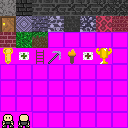
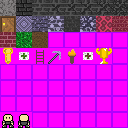
Implement Ladder System

Changed region(s): [[0.25, 0.25, 0.375, 0.375]]

diff --git a/screen.c b/screen.c
@@ -4,6 +4,7 @@
 #include "./game.h"
 #include "./item.h"
 #include "./vec2.h"
+#include "./ladder.h"
 #include <SDL2/SDL.h>
 #include <SDL2/SDL_image.h>
 #include <stdio.h>
@@ -11,9 +12,11 @@
 #include <stdbool.h>
 #include <assert.h>
 #include <math.h>
+#include <time.h>
 
 
 double zbuffer[SCREEN_WIDTH] = {0};
+void screen_generate_overworld_floor();
 
 Screen screen_init(int* pixels)
 {
@@ -21,8 +24,26 @@ Screen screen_init(int* pixels)
     screen.pixels = pixels;
 
     screen.bitmap = bitmap_load("./res/bitmap.png");
+    screen_generate_overworld_floor();
 
     return screen;
+}
+
+int overworld_floor_map[MAP_WIDTH][MAP_HEIGHT] = {0};
+
+void screen_generate_overworld_floor()
+{
+    srand(time(0));
+    for (int x = 0; x < MAP_WIDTH; x++) {
+	for (int y = 0; y < MAP_HEIGHT; y++) {
+	    double r = (double)rand() / (double)RAND_MAX; // 0 - 1, 0% - 100%
+	    if (r < 0.2) {
+		overworld_floor_map[x][y] = 1;
+	    } else {
+		overworld_floor_map[x][y] = 0;
+	    }
+	}
+    }
 }
 
 void screen_render_floor(Screen* screen, Vec2* dir, Vec2* plane, Vec2* pos)
@@ -59,23 +80,36 @@ void screen_render_floor(Screen* screen, Vec2* dir, Vec2* plane, Vec2* pos)
 	    floor_y += step_y;
 
 	    // Floor
-	    int bm_index = 0;
+	    int bm_floor_index = 0;
 	    switch (current_map_type) {
+	    case MAP_CAVE:
+		bm_floor_index = 0;
+		break;
 	    case MAP_ICE:
-		bm_index = TILE_ICE_GROUND;
+		bm_floor_index = TILE_ICE_GROUND;
 		break;
 	    case MAP_FIRE:
-		bm_index = TILE_FIRE_GROUND;
+		bm_floor_index = TILE_FIRE_GROUND;
 		break;
-	    default:
+	    case MAP_OVERWORLD:
+		if (overworld_floor_map[cell_x % MAP_WIDTH][cell_y % MAP_HEIGHT] == 0) {
+		    bm_floor_index = TILE_OVERWORLD_GRASS_GROUND;
+		} else {
+		    bm_floor_index = TILE_OVERWORLD_DIRT_GROUND;
+		}
 		break;
 	    }
-	    int color = screen->bitmap.pixels[TEX_WIDTH * ty + tx][bm_index];
+	    // Floor
+	    int color = screen->bitmap.pixels[TEX_WIDTH * ty + tx][bm_floor_index];
 	    color = (color >> 1) & 8355711; // More darker
 	    screen->pixels[y * SCREEN_WIDTH + x] = color;
-	
+
 	    // Celling
-	    screen->pixels[(SCREEN_HEIGHT - y - 1) * SCREEN_WIDTH + x] = color;
+	    if (current_map_type == MAP_OVERWORLD) {
+		screen->pixels[(SCREEN_HEIGHT - y - 1) * SCREEN_WIDTH + x] = 0;
+	    } else {
+		screen->pixels[(SCREEN_HEIGHT - y - 1) * SCREEN_WIDTH + x] = color;
+	    }
 	}
     }
 #else
@@ -122,8 +156,14 @@ void screen_perform_dda(Ray* ray, int* map_x, int* map_y, Vec2* pos)
 	    ray->side = 1;
 	}
 
-	if (map[*map_x][*map_y] > 0) {
+	if (*map_x < 0 || *map_x >= MAP_WIDTH ||
+	    *map_y < 0 || *map_y >= MAP_HEIGHT) {
 	    hit = 1;
+	}
+
+	if (map[*map_x][*map_y] > 0) {
+	    hit = -1;
+	    break;
 	}
     }
 }
@@ -166,6 +206,7 @@ void screen_render_walls(Screen* screen, Vec2* dir, Vec2* plane, Vec2* pos)
 	screen_calculate_perp_wall_dist(&ray, pos, &wall_x);
 
 	int tex_num = map[map_x][map_y];
+
 	int tex_x = (int)(wall_x * (double)TEX_WIDTH);
 	if (ray.side == 0 && ray_dir.x > 0) tex_x = TEX_WIDTH - tex_x - 1;
 	if (ray.side == 1 && ray_dir.y < 0) tex_x = TEX_HEIGHT - tex_x - 1;
@@ -199,6 +240,8 @@ void screen_render_walls(Screen* screen, Vec2* dir, Vec2* plane, Vec2* pos)
 void screen_render(Screen* screen, Vec2* dir, Vec2* plane, Vec2* pos)
 {
     screen_render_floor(screen, dir, plane, pos);
-    screen_render_walls(screen, dir, plane, pos);
+    if (current_map_type != MAP_OVERWORLD)
+	screen_render_walls(screen, dir, plane, pos);
     items_render(screen, dir, plane, pos);
+    ladders_render(screen, dir, plane, pos);
 }

diff --git a/ladder.c b/ladder.c
@@ -1,0 +1,61 @@
+#include "./ladder.h"
+#include "./map.h"
+
+Ladder ladders[LADDER_CAP] = {0};
+int ladder_count = 0;
+
+
+void ladder_create(MapType map1, MapType map2, Bitmap* bitmap, double x, double y)
+{
+    if (ladder_count >= LADDER_CAP) {
+	return;
+    }
+    Ladder l = {0};
+    l.map1 = map1;
+    l.map2 = map2;
+    l.pos = (Vec2) {x,y};
+    l.sprite = sprite_load_from_bitmap(bitmap, LADDER_BITMAP_INDEX, x, y, 1, 1, SPRITE_GROUND_VALUE);
+    
+    ladders[ladder_count++] = l;
+}
+
+void ladders_init(Bitmap* bitmap)
+{
+    ladder_create(MAP_CAVE, MAP_ICE, bitmap, 3.5f, 1.6f);
+    ladder_create(MAP_ICE, MAP_FIRE, bitmap, 7.5f, 9.2f);
+}
+
+void ladders_render(Screen* screen, Vec2* dir, Vec2* plane, Vec2* pos)
+{
+    for (int i = 0; i < ladder_count; i++) {
+	Ladder l = ladders[i];
+	if (current_map_type != l.map1 && current_map_type != l.map2)
+	    continue;
+	sprite_render(screen, &ladders[i].sprite, dir, plane, pos);
+    }
+}
+
+void ladders_update(Player* p)
+{
+    for (int i = 0; i < ladder_count; i++) {
+	if (current_map_type != ladders[i].map1 && current_map_type != ladders[i].map2)
+	    continue;
+	if (player_check_collision(p, &ladders[i].sprite, 0.1f)) {
+	    ladder_climb(&ladders[i], p);
+	}
+    }
+}
+
+void ladder_climb(Ladder* l, Player* p)
+{
+    double lx = l->pos.x;
+    double ly = l->pos.y;
+    if (lx < 0 || lx >= MAP_WIDTH || ly < 0 || ly >= MAP_HEIGHT)
+	return;
+
+    if (current_map_type == l->map1) {
+	map_switch(p, l->map2);
+    } else {
+	map_switch(p, l->map1);
+    }
+}

diff --git a/player.c b/player.c
@@ -112,6 +112,7 @@ bool player_check_collision(Player* p, Sprite* sprite, double radius)
 void player_game_over(Player* p)
 {
     game_state = STATE_GAMEOVER;
+    printf("Play the sound");
     sound_play(SOUND_VICTORY);
 
     assert(game_timer == 0 && "game_timer is supposed to be <= 0");
@@ -144,19 +145,6 @@ void player_pickup_item(Player* p, int item_index)
 	sound_play(SOUND_TIMEKIT);
 	items[item_index] = (Item) {.type = ITEM_EMPTY};
 	break;
-    case ITEM_LADDER:
-	switch (current_map_type) {
-	case MAP_CAVE:
-	    map_switch(p, MAP_ICE);
-	    break;
-	case MAP_ICE:
-	    map_switch(p, MAP_FIRE);
-	    break;
-	case MAP_FIRE:
-	    map_switch(p, MAP_CAVE);
-	    break;
-	}
-	break;
     case ITEM_AXE:
 	p->has_axe = 1;
 	items[item_index] = (Item) {.type = ITEM_EMPTY};
@@ -174,6 +162,7 @@ void player_pickup_item(Player* p, int item_index)
 	break;
     case ITEM_GOAL:
 	player_victory(p);
+	items[item_index] = (Item) {.type = ITEM_EMPTY};
 	break;
     default:
 	break;

diff --git a/item.c b/item.c
@@ -29,14 +29,13 @@ void item_load_with_scale(ItemType type, Bitmap* bitmap, MapType map, double x, 
 void items_init(Bitmap* bitmap)
 {
     // MAP_CAVE
+    item_load(ITEM_GOAL, bitmap, MAP_CAVE, 19.9f, 10.5f);
     item_load(ITEM_KEY, bitmap, MAP_CAVE, 10.0f, 8.0f);
     item_load(ITEM_TIMEKIT, bitmap, MAP_CAVE, 12.5f, 14.3f);
-    item_load_with_scale(ITEM_LADDER, bitmap, MAP_CAVE, 3.5f, 1.6f, 1, 1, SPRITE_GROUND_VALUE);
     item_load(ITEM_KEY, bitmap, MAP_CAVE, 10.0f, 21.9f);
 
     // MAP_ICE
     item_load(ITEM_KEY, bitmap, MAP_ICE, 5.5f, 4.4f);
-    item_load_with_scale(ITEM_LADDER, bitmap, MAP_ICE, 7.5f, 9.7f, 1, 1, SPRITE_GROUND_VALUE);
     item_load(ITEM_AXE, bitmap, MAP_ICE, 1.8f, 21.5f);
     item_load(ITEM_TIMEKIT, bitmap, MAP_ICE, 1.4f, 12.4f);
 

diff --git a/include/ladder.h b/include/ladder.h
@@ -1,0 +1,29 @@
+#ifndef _LADDER_H_
+#define _LADDER_H_
+
+#include "./vec2.h"
+#include "./ladder.h"
+#include "./map.h"
+#include "./sprite.h"
+#include "./bitmap.h"
+
+#define LADDER_CAP 20
+#define LADDER_BITMAP_INDEX 26
+
+typedef struct {
+    Vec2 pos;
+    MapType map1;
+    MapType map2;
+    Sprite sprite;
+} Ladder;
+
+extern Ladder ladders[LADDER_CAP];
+extern int ladder_count;
+
+void ladders_init(Bitmap* bitmap);
+void ladder_create(MapType map1, MapType map2, Bitmap* bitmap, double x, double y);
+void ladders_render(Screen* screen, Vec2* dir, Vec2* plane, Vec2* pos);
+void ladders_update(Player* p);
+void ladder_climb(Ladder* l, Player* p);
+
+#endif // _LADDER_H_

diff --git a/game.c b/game.c
@@ -13,6 +13,7 @@
 #include "./sprite.h"
 #include "./item.h"
 #include "./menu.h"
+#include "./ladder.h"
 
 #ifdef TARGET_BROWSER
 #include <emscripten/emscripten.h>
@@ -35,6 +36,7 @@ SDL_Texture* texture;
 void update(void)
 {
     player_update(&player);
+    ladders_update(&player);
     items_update(&player);
     tick_count++;
 }
@@ -203,12 +205,13 @@ int init(void)
     }
     menu_init();
 
-    map_load_from_png("./res/maps/cave.png");
-
     player = player_init();
     screen = screen_init(pixels);
     sound_init();
     items_init(&screen.bitmap);
+    ladders_init(&screen.bitmap);
+
+    map_load_from_png("./res/maps/cave.png");
 
     main_loop();
 

diff --git a/map.c b/map.c
@@ -24,7 +24,7 @@ int map_colors[TILE_COUNT] = {
     [TILE_MAGIC_STONE] = 0xff303030,
     [TILE_ICE_LIGHT_BREAKSTONE] = 0xff3e385b,
     [TILE_FIRE_DARK_STONE] = 0xff742134,
-    [TILE_FIRE_LIGHT_BREAKSTONE] = 0xffa86575 
+    [TILE_FIRE_LIGHT_BREAKSTONE] = 0xffa86575,
 };
 
 void map_switch(Player* p, MapType type)
@@ -42,6 +42,9 @@ void map_switch(Player* p, MapType type)
 	break;
     case MAP_FIRE:
 	map_load_from_png("./res/maps/fire.png");
+	break;
+    case MAP_OVERWORLD:
+	memset(map, 0, sizeof(Tile)*MAP_WIDTH*MAP_HEIGHT);
 	break;
     }
     sound_play(SOUND_LEVEL_ENTRANCE);

diff --git a/sound.c b/sound.c
@@ -45,10 +45,13 @@ void sound_load(Sound sound_id, char* file_path)
 
 void sound_play(Sound sound_id)
 {
-    if (Mix_PlayChannel(-1, sounds[sound_id], 0) < 0) {
+    if (sound_id < 0 || sound_id > SOUND_COUNT)
+	return;
+
+    int channel = Mix_PlayChannel(-1, sounds[sound_id], 0);
+    if (channel < 0) {
 	fprintf(stderr, "ERROR: MixPlayChannel(): Failed to play sound: %s\n",
 		Mix_GetError());
-	exit(1);
     }
 }
 

diff --git a/include/map.h b/include/map.h
@@ -24,13 +24,16 @@ typedef enum {
     TILE_FIRE_GROUND,
     TILE_FIRE_DARK_STONE,
     TILE_FIRE_LIGHT_BREAKSTONE,
+    TILE_OVERWORLD_GRASS_GROUND,
+    TILE_OVERWORLD_DIRT_GROUND,
     TILE_COUNT
 } Tile;
 
 typedef enum {
     MAP_CAVE,
     MAP_ICE,
-    MAP_FIRE
+    MAP_FIRE,
+    MAP_OVERWORLD
 } MapType;
 
 extern MapType current_map_type;

diff --git a/include/item.h b/include/item.h
@@ -12,7 +12,7 @@ typedef enum {
     ITEM_EMPTY = 0,
     ITEM_KEY,
     ITEM_TIMEKIT,
-    ITEM_LADDER,
+    ITEM_LADDER, // FIXME: Ladder is no longer an item but keep for now to offset correctly
     ITEM_AXE,
     ITEM_TORCH,
     ITEM_FAKEKIT,

diff --git a/include/sound.h b/include/sound.h
@@ -3,7 +3,7 @@
 
 #include <SDL2/SDL_mixer.h>
 
-#define SOUND_CHANNELS 32
+#define SOUND_CHANNELS 64
 
 typedef enum {
     SOUND_MENU_NAVIGATE = 0,
